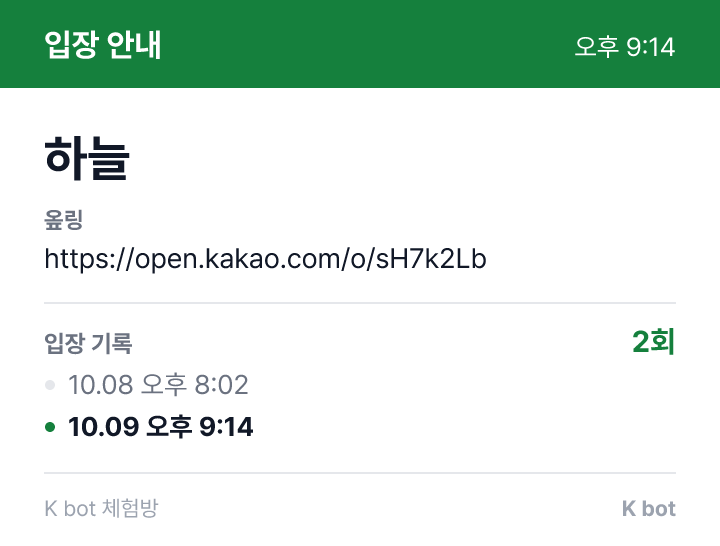
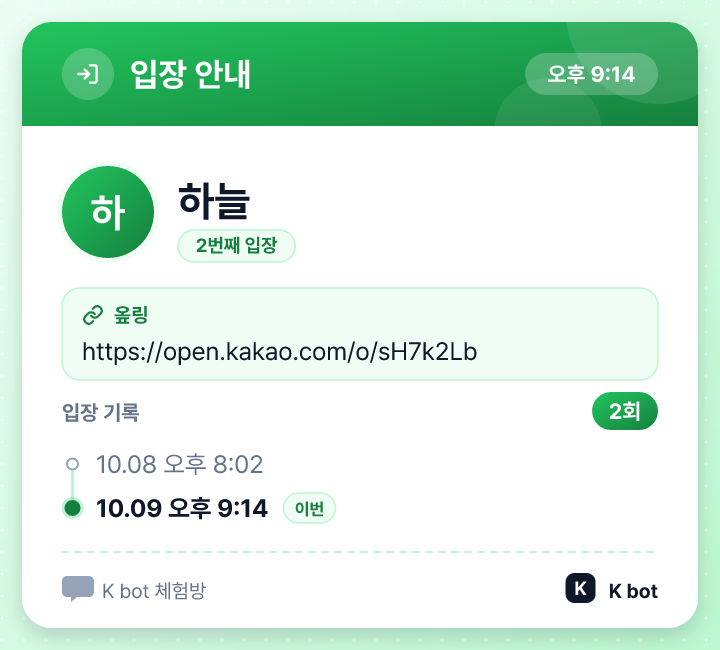
Room bot: richer log cards; the text after the card carries the mention and 옾링
- The card is redesigned: tinted dotted background, gradient header with an
  icon and a time pill, initial avatar, "N번째 입장" tag, 옾링 in a boxed
  field, a timeline for the record with the latest marked 이번, and a footer
  with the room name and the K bot mark.
- The text sent right after the card is now the notice itself without the
  record: [입장 안내] / 이름 : @닉네임 / 옾링 : 주소 (profile: 변경전 / 변경후 /
  옾링 칸들), so the person is mentioned and the link can be tapped or copied.
  Without a user id the same text goes out without the mention.
- Panel previews and docs follow.

Claude-Session: https://claude.ai/code/session_01Naz22F57sQBVpt8ijJSy2A

diff --git a/public/panel.html b/public/panel.html
@@ -668,7 +668,7 @@
         <div class="srow-r"><div class="w100 style-pick"><div class="seg" id="r-visit-style" role="group" aria-label="방에 보내는 안내 모양"><span class="seg-ind"></span><button type="button" data-v="image" aria-pressed="true">이미지</button><button type="button" data-v="text" aria-pressed="false">글</button></div>
           <p class="style-note" data-style-note="r-visit-style"></p>
           <div class="preview-chat" data-style-of="r-visit-style"><span class="who-l" data-r-who></span>
-            <div class="style-v" data-v="image"><img class="bub-img" src="/img/logcard-join.png?v=1" width="720" height="546" alt="[입장 안내] 이미지 — 하늘 · 옾링 https://open.kakao.com/o/sH7k2Lb · 입장 기록 2회, 10.08 오후 8:02, 10.09 오후 9:14" loading="lazy"><div class="bub notice">[입장 안내] @하늘</div></div>
+            <div class="style-v" data-v="image"><img class="bub-img" src="/img/logcard-join.png?v=2" width="720" height="650" alt="[입장 안내] 이미지 — 하늘 · 옾링 https://open.kakao.com/o/sH7k2Lb · 입장 기록 2회, 10.08 오후 8:02, 10.09 오후 9:14" loading="lazy"><div class="bub notice">[입장 안내]&#10;이름 : @하늘&#10;옾링 : https://open.kakao.com/o/sH7k2Lb</div></div>
             <div class="style-v" data-v="text" hidden><div class="bub notice">[입장 안내]&#10;이름 : @하늘&#10;옾링 : https://open.kakao.com/o/sH7k2Lb&#10;입장 기록 : 2회&#10;10.08 오후 8:02&#10;10.09 오후 9:14</div></div>
           </div></div></div></div>
     </div></div>
@@ -747,7 +747,7 @@
         <div class="srow-r"><div class="w100 style-pick"><div class="seg" id="r-profile-style" role="group" aria-label="방에 보내는 안내 모양"><span class="seg-ind"></span><button type="button" data-v="image" aria-pressed="true">이미지</button><button type="button" data-v="text" aria-pressed="false">글</button></div>
           <p class="style-note" data-style-note="r-profile-style"></p>
           <div class="preview-chat" data-style-of="r-profile-style"><span class="who-l" data-r-who></span>
-            <div class="style-v" data-v="image"><img class="bub-img" src="/img/logcard-profile.png?v=1" width="720" height="590" alt="[프로필 변경 감지] 이미지 — 변경전 하늘 · 변경후 하늘_판매 · 옾링 https://open.kakao.com/o/sH7k2Lb · 변경 기록 1회, 10.09 오후 9:14" loading="lazy"><div class="bub notice">[프로필 변경 감지] @하늘_판매</div></div>
+            <div class="style-v" data-v="image"><img class="bub-img" src="/img/logcard-profile.png?v=2" width="720" height="606" alt="[프로필 변경 감지] 이미지 — 변경전 하늘 · 변경후 하늘_판매 · 옾링 https://open.kakao.com/o/sH7k2Lb · 변경 기록 1회, 10.09 오후 9:14" loading="lazy"><div class="bub notice">[프로필 변경 감지]&#10;변경전 : ＠하늘&#10;변경후 : @하늘_판매&#10;옾링 : https://open.kakao.com/o/sH7k2Lb</div></div>
             <div class="style-v" data-v="text" hidden><div class="bub notice">[프로필 변경 감지]&#10;변경전 : ＠하늘&#10;변경후 : @하늘_판매&#10;옾링 : https://open.kakao.com/o/sH7k2Lb&#10;변경 기록 : 1회&#10;10.09 오후 9:14</div></div>
           </div></div></div></div>
     </div></div>
